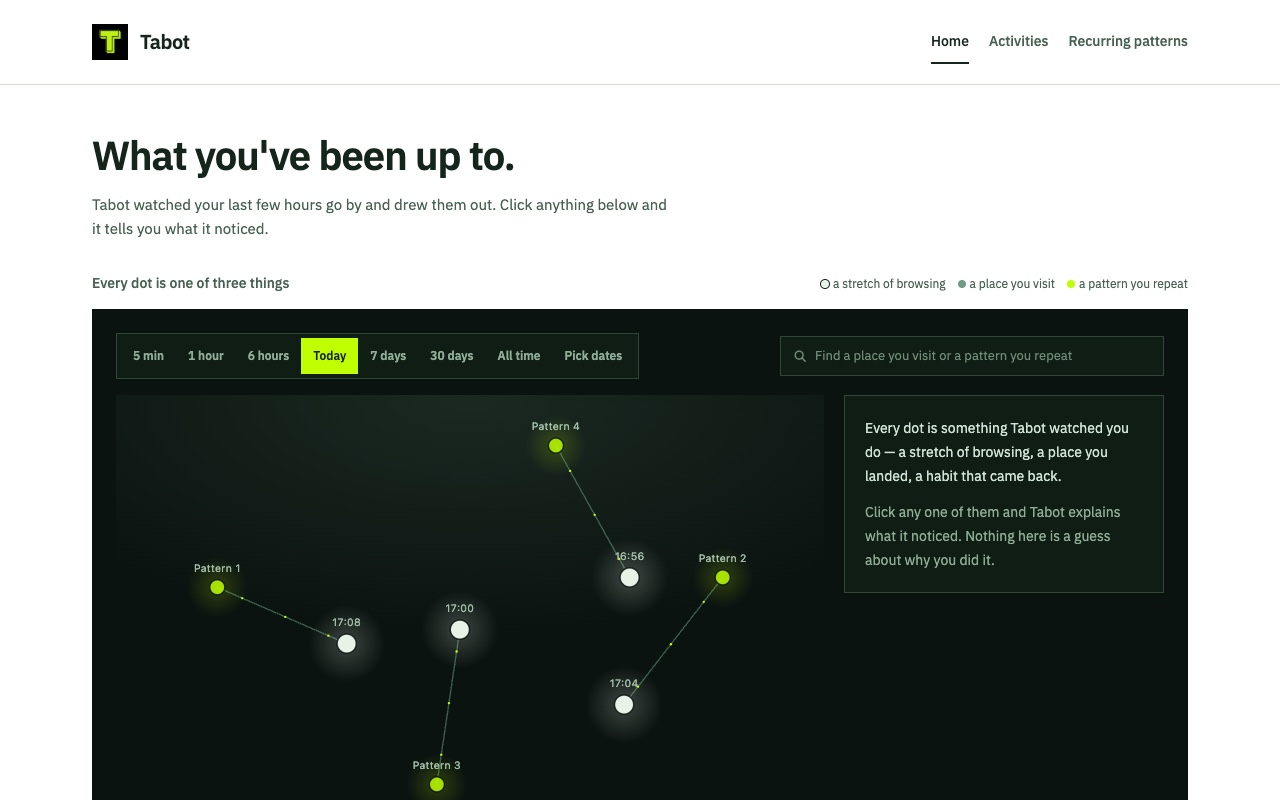
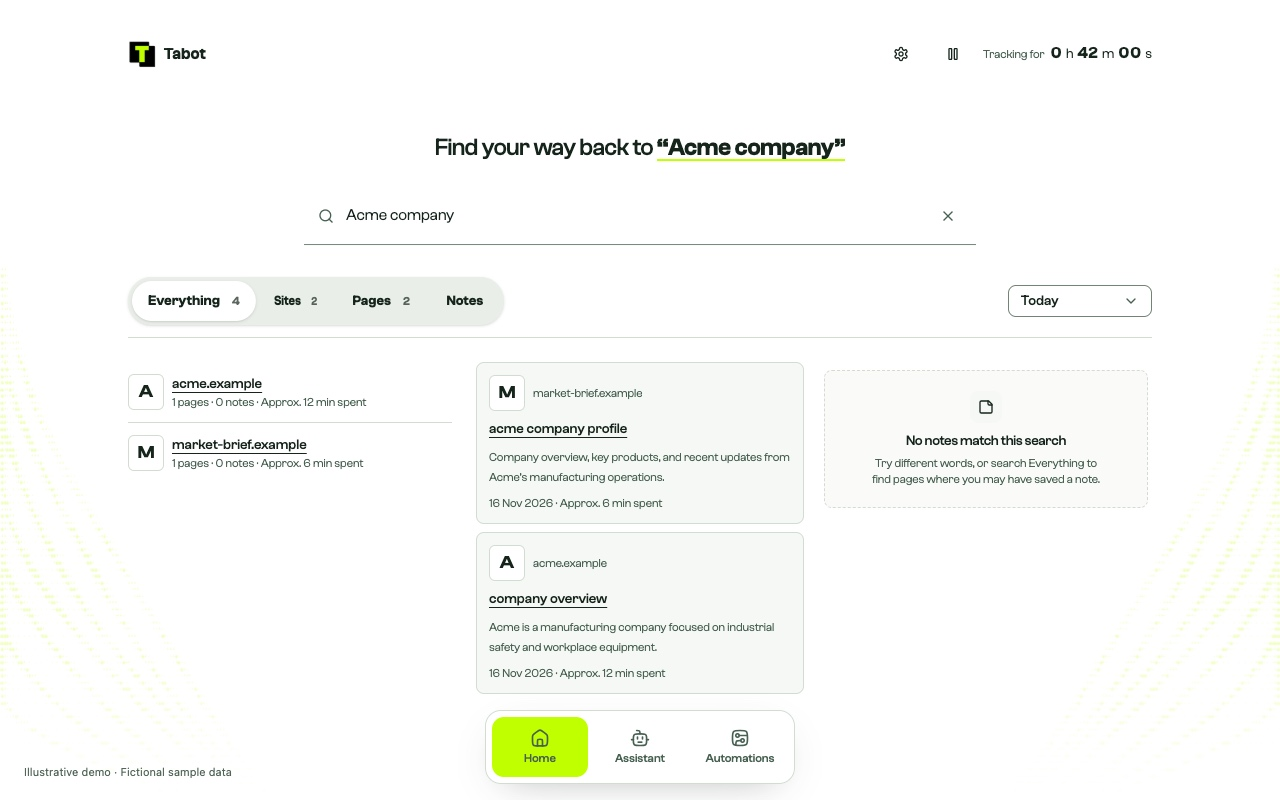
chore: refresh Chrome Web Store assets

diff --git a/README.md b/README.md
@@ -4,6 +4,10 @@
 
 <h1 align="center">Tabot</h1>
 
+<p align="center">
+	<img src="apps/extension/store-assets/chatgpt-demo.gif" alt="ChatGPT requesting and displaying Tabot search results" width="80%" />
+</p>
+
 <p align="center"><strong>Bring your browser work to ChatGPT.</strong></p>
 
 Tabot is the browser activity layer for AI-assisted work. It helps you use work already done in Chrome with ChatGPT.
@@ -17,6 +21,14 @@ Tabot is in early beta. Search and review your browsing context locally—includ
 ## Data and privacy
 
 Browser history, excerpts, notes, and search indexes stay in Chrome on your device. When you ask ChatGPT about activity or request saved notes, selected results go to ChatGPT; the relay routes requests but does not store browser history or tool results. Excerpts stay local. Tabot does not record what you type or enter in forms, take screenshots, or save full-page copies. Selected sensitive patterns are filtered from captured text and URLs and from requested note text and titles; filtering can miss sensitive details.
+
+## Demos
+
+Search fictional Acme browsing activity locally in Tabot. Sample data is illustrative, not live browsing history.
+
+<p align="center">
+	<img src="apps/extension/store-assets/tabot-demo.gif" alt="Searching fictional browsing activity in Tabot" width="80%" />
+</p>
 
 ## Run locally
 
